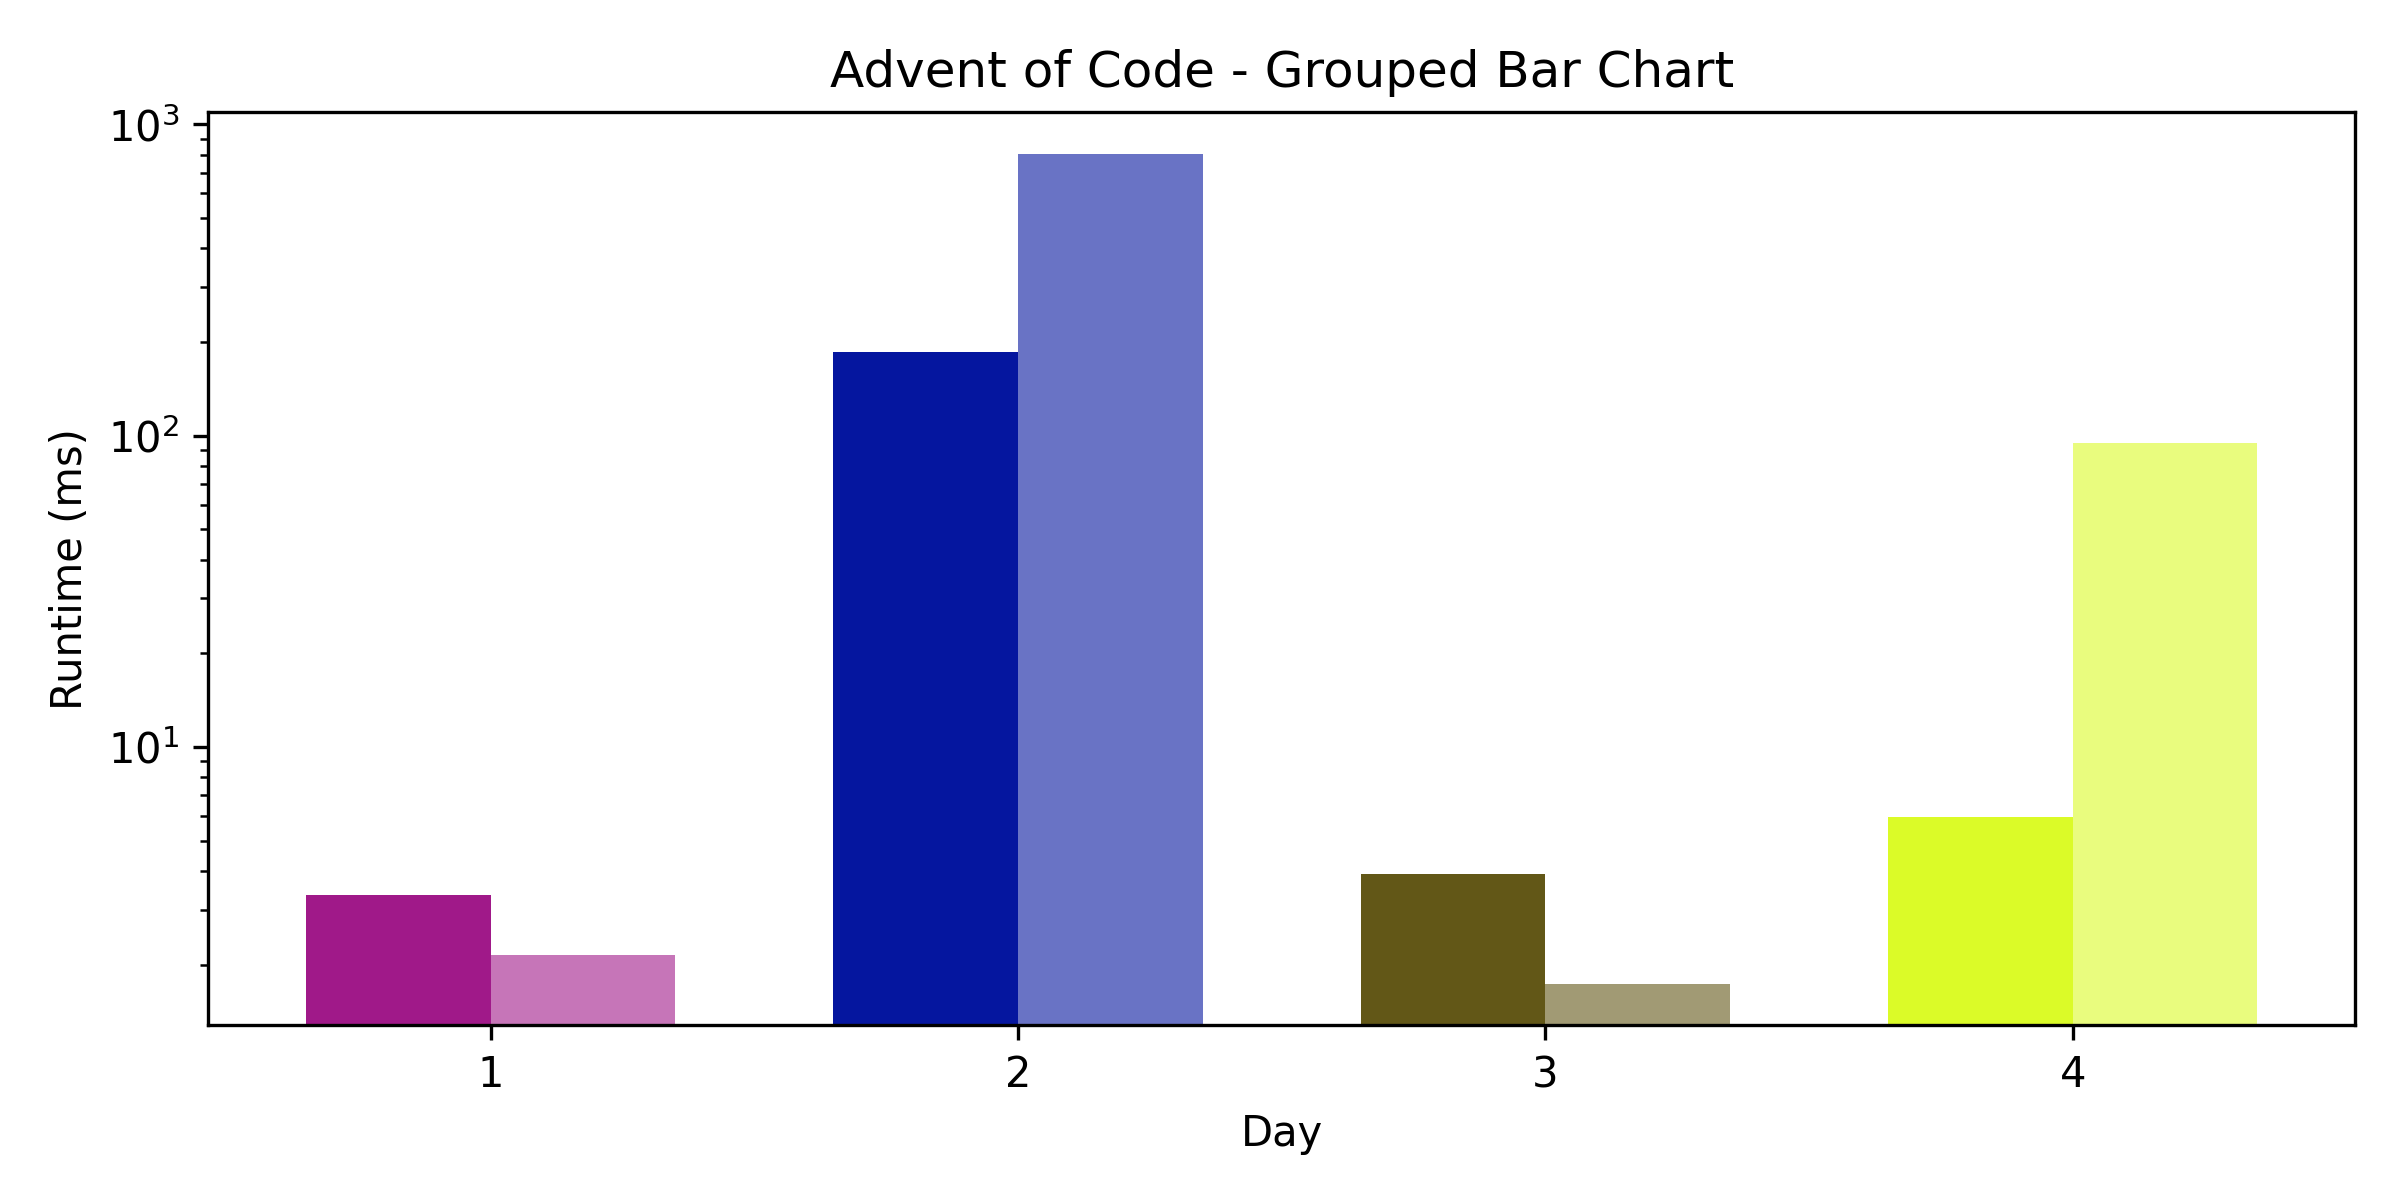
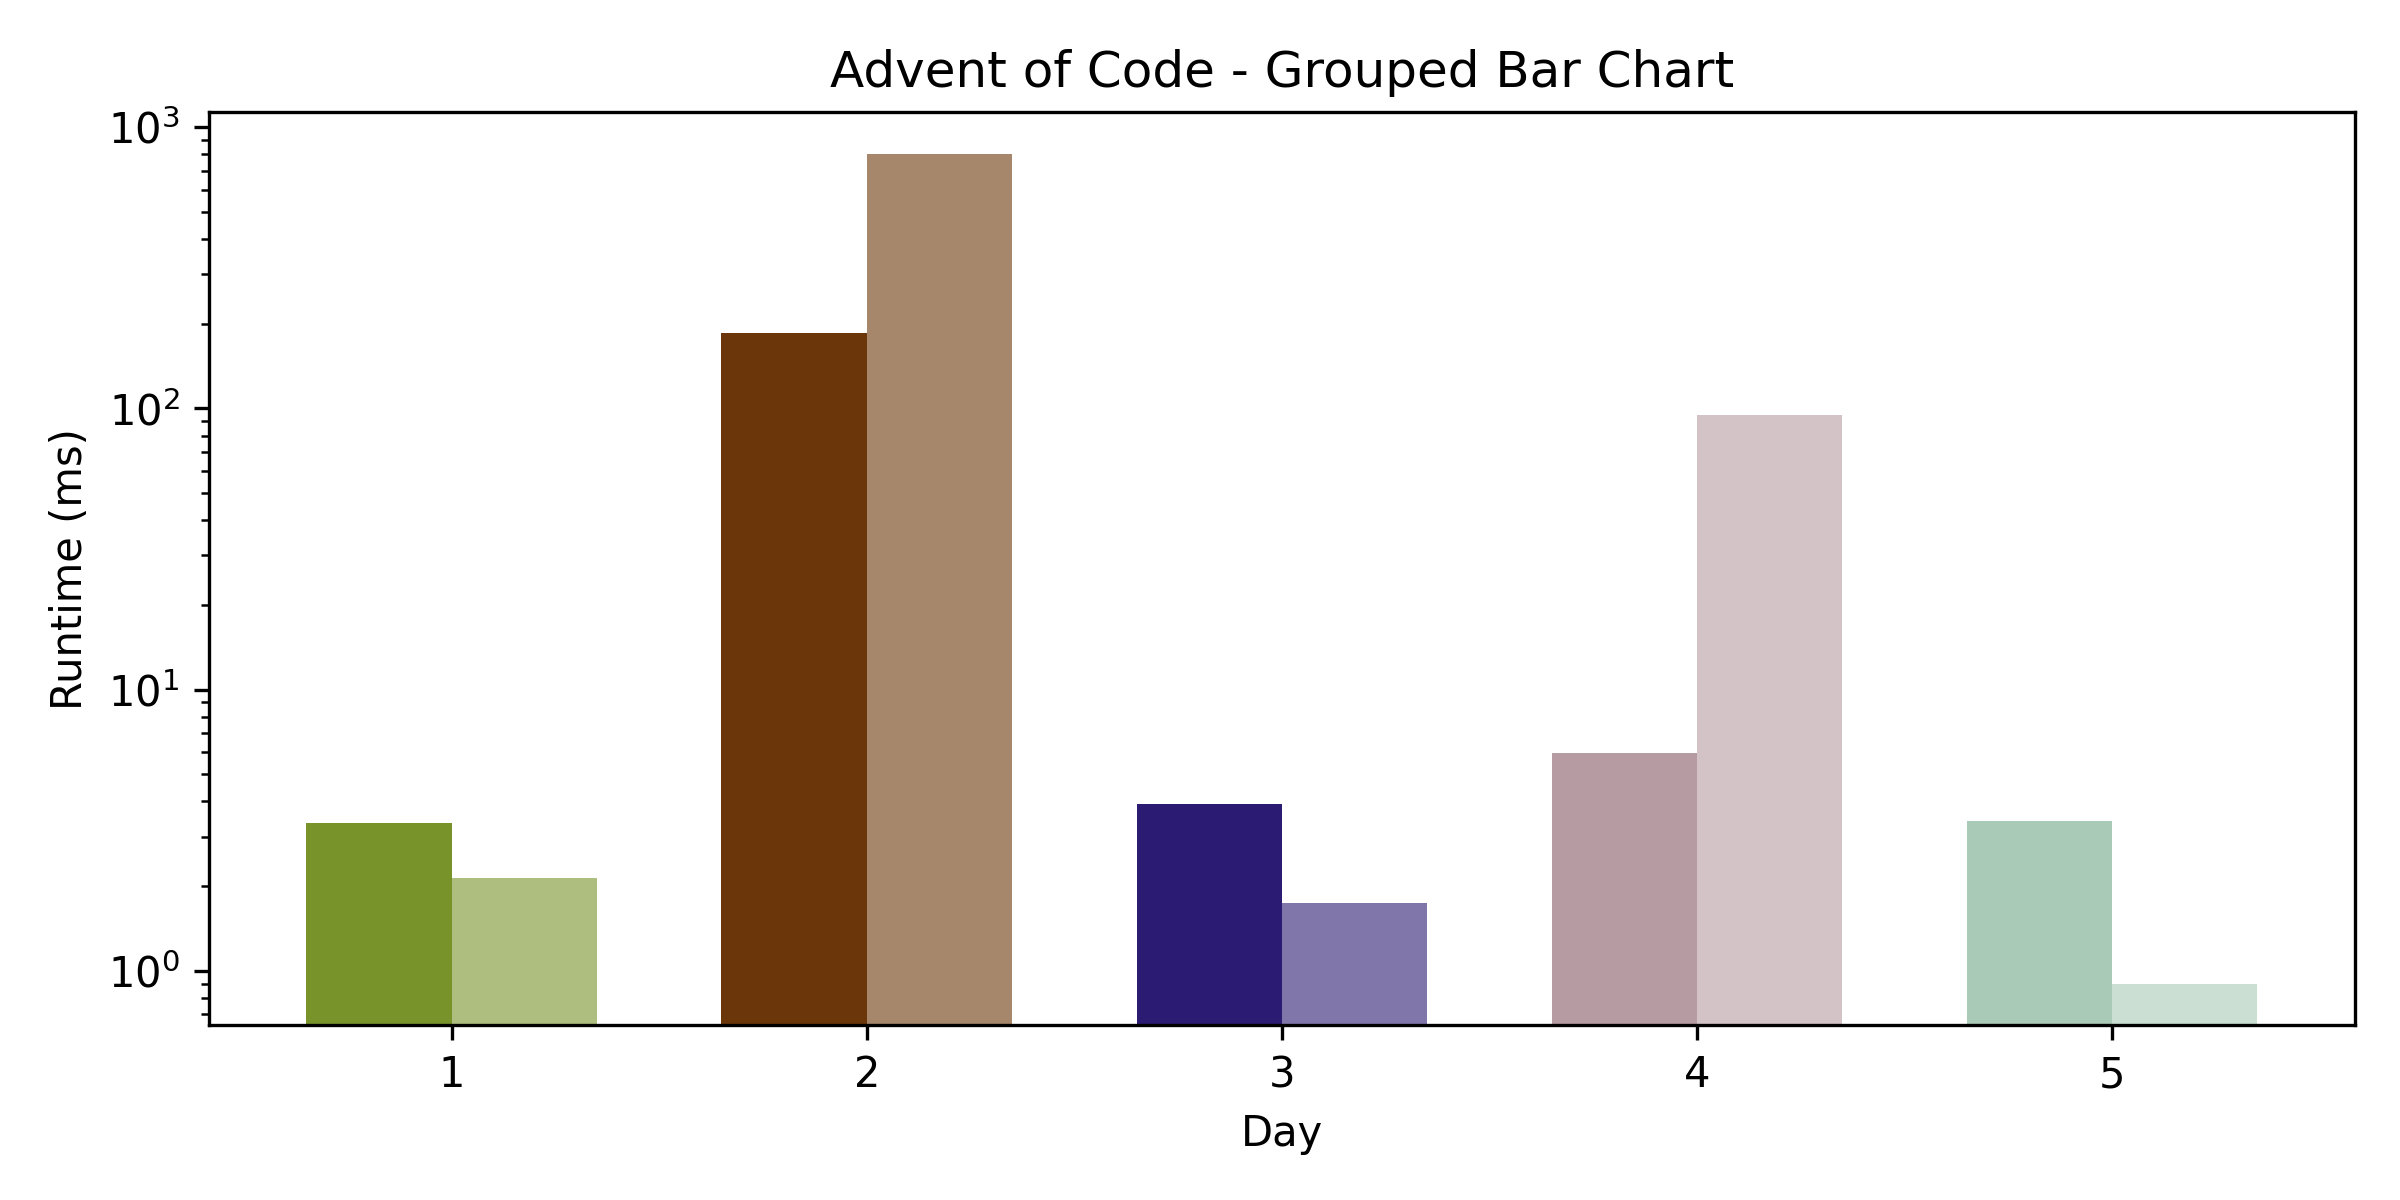
Day 05, AOC 2025

diff --git a/2025/day05/src/main.rs b/2025/day05/src/main.rs
@@ -1,0 +1,96 @@
+use std::time::Instant;
+
+const INPUT: &str = include_str!("../../inputs/2025-05.txt");
+
+fn parse(input: &str) -> (Vec<(u64, u64)>, Vec<u64>) {
+    let (ranges, ids) = input.split_once("\n\n").unwrap();
+    
+    let mut range = Vec::new();
+    for line in ranges.lines() {
+        let (a, b) = line.split_once('-').unwrap();
+        range.push((a.parse().unwrap(), b.parse().unwrap()));
+    }
+
+    let mut id = Vec::new();
+    for line in ids.lines() {
+        id.push(line.parse::<u64>().unwrap());
+    }
+    (range, id)
+}
+
+fn p1(input: &str) -> usize {
+    let (ranges, ids) = parse(input);
+    let mut fresh = 0;
+    for id in ids {
+        for (start, end) in &ranges {
+            if id >= *start && id <= *end {
+                fresh += 1;
+                break;
+            }
+        }
+    }
+    fresh
+}
+
+fn p2(input: &str) -> usize {
+    let (mut ranges, _) = parse(input);
+    ranges.sort_unstable_by_key(|&(start, _end)| start);
+
+    let mut total = 0;
+
+    let (mut current_start, mut current_end) = ranges[0];
+
+    for &(start, end) in &ranges[1..] {
+        if start <= current_end + 1 {
+            if end > current_end {
+                current_end = end;
+            }
+        } else {
+            total += (current_end - current_start + 1) as usize;
+            current_start = start;
+            current_end = end;
+        }
+    }
+
+    total += (current_end - current_start + 1) as usize;
+    total
+}
+
+fn main() {
+    let now = Instant::now();
+    let solution = p1(INPUT);
+    let elapsed = now.elapsed();
+    println!("p1: {:?} {}", elapsed, solution);
+
+    let now = Instant::now();
+    let solution = p2(INPUT);
+    let elapsed = now.elapsed();
+    println!("p2: {:.6} {}", elapsed.as_secs_f64() * 1000.0, solution);
+}
+
+#[cfg(test)]
+mod tests {
+    use super::*;
+
+    const TEST_INPUT: &str =
+    "3-5
+10-14
+16-20
+12-18
+
+1
+5
+8
+11
+17
+32";
+    #[test]
+    fn test_p1() {
+        assert_eq!(p1(TEST_INPUT), 3);
+    }
+
+    #[test]
+    fn test_p2() {
+        assert_eq!(p2(TEST_INPUT), 14);
+    }
+}

diff --git a/README.md b/README.md
@@ -45,6 +45,7 @@ My chosen language of 2025 is Rust.
 | [2](2025/day02/src/main.rs) | 185.548583ms     | 806.102792ms     |
 | [3](2025/day03/src/main.rs) | 3.910500ms       | 1.737917ms       |
 | [4](2025/day04/src/main.rs) | 5.953292ms       | 95.027167ms      |
+| [5](2025/day05/src/main.rs) | 3.412541ms       | 0.899959ms       |
 <!-- END CSV TABLE -->
 
 
